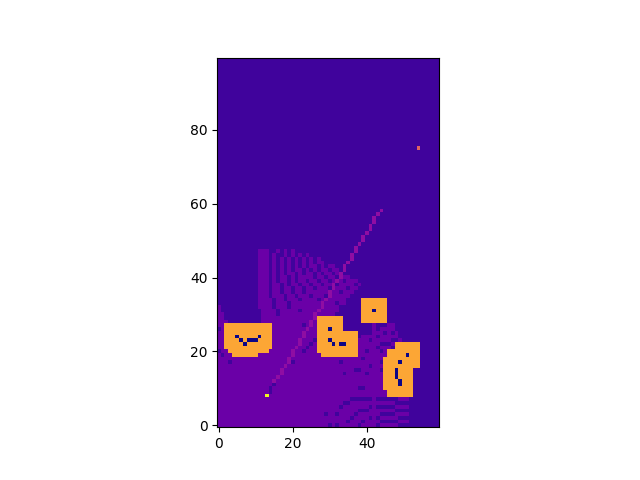
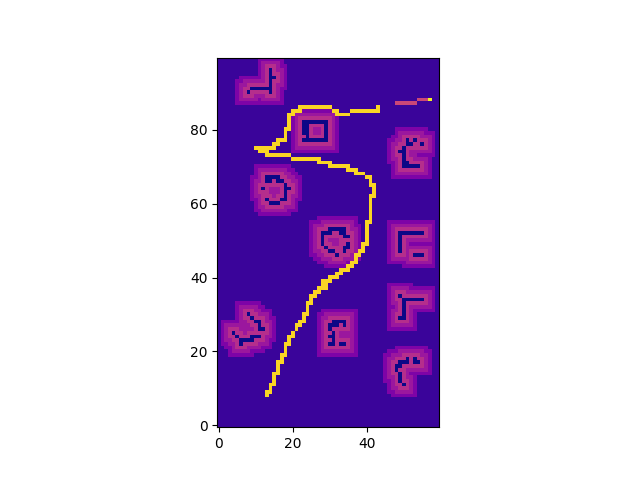
something is working

Changed region(s): [[0.3438, 0.125, 0.6875, 0.9062], [0.625, 0.1875, 0.6875, 0.2188]]

diff --git a/controllers/main/new_scanner.py b/controllers/main/new_scanner.py
@@ -8,7 +8,11 @@ on_ground = True
 height_desired = 0.5
 setpoints = [[-0.0, -0.0], [0.0, -2.0], [2.0, -2.0], [2.0,  -4.0],[-1.0, -2.0],[-1.0, -3.0]]
 delta = 0.3
-setpoints = [[3.5+delta,delta],[3.5+delta, 3-delta], [3.5+3*delta, 3-delta], [3.5+3*delta, delta]]
+setpoints = \
+            [[3.8,0.1],[3.8,0.45],[3.8,0.8],[3.8,1.15],[3.8,1.5],[3.8,1.85],[3.8,2.2],[3.8,2.55],[3.8,2.9]
+            ,[4.1,2.9],[4.1,2.55],[4.1,2.2],[4.1,1.85],[4.1,1.5],[4.1,1.15],[4.1,0.8],[4.1,0.45],[4.1,0.1]
+            ,[4.4,0.1],[4.4,0.45],[4.4,0.8],[4.4,1.15],[4.4,1.5],[4.4,1.85],[4.4,2.2],[4.4,2.55],[4.4,2.9]
+            ,[4.7,2.9],[4.7,2.55],[4.7,2.2],[4.7,1.85],[4.7,1.5],[4.7,1.15],[4.7,0.8],[4.7,0.45],[4.7,0.1]]
 goals = []
 perm_list = []
 pro_point = [0,0]
@@ -40,11 +44,9 @@ def path_planning(sensor_data):
     else:
         on_ground = False
    
-    #goals = create_path(sensor_data)
-    #print("goals in path planning: ", goals)
     occupancy_map(sensor_data)
     new_goals,actual_map = create_path2(sensor_data)
-    #new_goals = setpoints[index_current_setpoint]
+    #new_goals = [setpoints[index_current_setpoint]]
     vec_goal_drone,angle_goal_drone = drone_goal_orientation(sensor_data,index_current_setpoint)
     omega = omega_func2(scanning(pi/4,angle_goal_drone))
     speed = min(0.2,norm(vec_goal_drone))
@@ -57,7 +59,11 @@ def path_planning(sensor_data):
     #velocity_i = velocity_clipper(vec_goal_drone)
     v_x,v_y = I2B(sensor_data,velocity_i)
     control_command = [v_x,v_y,omega,height_desired]
+    if(norm(vec_goal_drone)<0.6):
+        index_current_setpoint += 1
     #control_command = obstacle_avoidance(sensor_data,control_command)
+    print("distance to goal: ", norm(vec_goal_drone))
+
     return control_command
 	
 def take_off(sensor_data):
@@ -117,10 +123,10 @@ def scanning(theta,alpha):
 	return phi-alpha
 
 def create_path2(sensor_data):
-    global map, map_past_pos,t
+    global map, map_past_pos,t,setpoints,index_current_setpoint
     list1 = map.copy()
-    mask = map_past_pos == 9
-    list1[mask] = 9
+    mask = map_past_pos == 10
+    list1[mask] = 10
 
     #starting position
     pos_x = sensor_data['x_global']
@@ -128,113 +134,183 @@ def create_path2(sensor_data):
     ind_dx = floor((pos_x - min_x)/res_pos)
     ind_dy = floor((pos_y - min_y)/res_pos)
     start = [ind_dx,ind_dy]
-    list1[start[0],start[1]] = 9
+    list1[start[0],start[1]] = 10
 
     #goal
     g_x,g_y = setpoints[index_current_setpoint]
     ind_gx = floor((g_x - min_x)/res_pos)
     ind_gy = floor((g_y - min_y)/res_pos)
     goal = [ind_gx,ind_gy]
-    list1[goal[0],goal[1]] = 5
+    list1[goal[0],goal[1]] = 11
 
     #Radius of research and length of zone of reasearch
     R = 1
     L = 50 
 
     #creating the path
-    #moving the goal if needed
-    rg = 2 # radius of obstacle free goal
-    while (map[max(goal[0]-rg,0):goal[0]+rg+1,max(goal[1]-rg,0):goal[1]+rg+1] == -1).sum() != 0:
-        direction = 3/2-goal[1]
-        mask = list1 == 9
-        list1 = map.copy()
-        list1[mask]=9
-        goal[1]=goal[1]+1 if direction > 0 else goal[1]-1
-        list1[goal[0],goal[1]] = 5
-        print("this while")
-    
+
     # list of the indexes for points with value -1 (list of obstacles indexes)
     u = np.where(list1==-1)
     v = np.vstack((u[0],u[1])).T    
-    # labeling the non-allowed blocks with 7
-    r = 3 #radius of non allowed blocks
+    # labeling the non-allowed blocks
+    r1 = 1 #radius of non allowed blocks
+    r2 = 2
+    r3 = 3
     for i,p in enumerate(v):
-        mask = list1[max(p[0]-r,0):p[0]+r+1,max(p[1]-r,0):p[1]+r+1] !=-1
-        list1[max(p[0]-r,0):p[0]+r+1,max(p[1]-r,0):p[1]+r+1] = mask*7\
-         + (~mask)*list1[max(p[0]-r,0):p[0]+r+1,max(p[1]-r,0):p[1]+r+1]
+        #premiere couche
+        mask0 = list1[max(p[0]-r1,0):p[0]+r1+1,max(p[1]-r1,0):p[1]+r1+1] > -1
+        mask1 = list1[max(p[0]-r1,0):p[0]+r1+1,max(p[1]-r1,0):p[1]+r1+1] < 10
+        mask1 = mask1 & mask0
+        list1[max(p[0]-r1,0):p[0]+r1+1,max(p[1]-r1,0):p[1]+r1+1] = mask1*4\
+         + (~mask1)*list1[max(p[0]-r1,0):p[0]+r1+1,max(p[1]-r1,0):p[1]+r1+1]
 
+        #2eme couche
+        mask0 = list1[max(p[0]-r2,0):p[0]+r2+1,max(p[1]-r2,0):p[1]+r2+1] > -1
+        mask1 = list1[max(p[0]-r2,0):p[0]+r2+1,max(p[1]-r2,0):p[1]+r2+1] < 4
+        mask1 = mask1 & mask0
+        list1[max(p[0]-r2,0):p[0]+r2+1,max(p[1]-r2,0):p[1]+r2+1] = mask1*3\
+         + (~mask1)*list1[max(p[0]-r2,0):p[0]+r2+1,max(p[1]-r2,0):p[1]+r2+1]
+
+        #3eme couche
+        mask0 = list1[max(p[0]-r3,0):p[0]+r3+1,max(p[1]-r3,0):p[1]+r3+1] > -1
+        mask1 = list1[max(p[0]-r3,0):p[0]+r3+1,max(p[1]-r3,0):p[1]+r3+1] < 3
+        mask1 = mask1 & mask0
+        list1[max(p[0]-r3,0):p[0]+r3+1,max(p[1]-r3,0):p[1]+r3+1] = mask1*2\
+         + (~mask1)*list1[max(p[0]-r3,0):p[0]+r3+1,max(p[1]-r3,0):p[1]+r3+1]
+
+    #moving the goal if needed
+    rg = 2 # radius of obstacle free goal
+    region = list1[max(goal[0]-rg,0):goal[0]+rg+1,max(goal[1]-rg,0):goal[1]+rg+1]
+    #if t>400:
+    #    print("region around goal:", region)
+    while ((region == -1)|(region == 4)|(region == 3)|(region == 2)).sum() != 0:
+        print("goal close to obstacle")
+        list1[goal[0],goal[1]] = 2
+        index_current_setpoint += 1
+        g_x,g_y = setpoints[index_current_setpoint]
+        ind_gx = floor((g_x - min_x)/res_pos)
+        ind_gy = floor((g_y - min_y)/res_pos)
+        goal = [ind_gx,ind_gy]
+        list1[goal[0],goal[1]] = 11
+        region = list1[max(goal[0]-rg,0):goal[0]+rg+1,max(goal[1]-rg,0):goal[1]+rg+1]
+    #    direction = 3/2-goal[1]
+    #    mask = list1 == 10
+    #    list1 = map.copy()
+    #    list1[mask]=10
+    #    goal[1]=goal[1]+1 if direction > 0 else goal[1]-1
+    #    list1[goal[0],goal[1]] = 5
+    #    print("this while")
+    
     chain = []
     reference = start
     propagation_point = start
     i = 0
     for i in range(L):
         #print("the main while")
-        # mask:(2R+1)x(2R+1) surrounding array with the allowed places
+        #
         lower_bound_x,upper_bound_x= max(reference[0]-R,0),reference[0]+R+1
         lower_bound_y,upper_bound_y= max(reference[1]-R,0),reference[1]+R+1
-        mask = (list1[lower_bound_x:upper_bound_x,lower_bound_y:upper_bound_y] == 1)\
-             | (list1[lower_bound_x:upper_bound_x,lower_bound_y:upper_bound_y] == 0)
-        non_mask = (list1[lower_bound_x:upper_bound_x,lower_bound_y:upper_bound_y] == 7)\
-                 | (list1[lower_bound_x:upper_bound_x,lower_bound_y:upper_bound_y] == -1) 
-        # if we find a square with value 5 it means we have found the goal
-        if (list1[lower_bound_x:upper_bound_x,lower_bound_y:upper_bound_y] == 5).sum() != 0:
+        region = list1[lower_bound_x:upper_bound_x,lower_bound_y:upper_bound_y].copy()
+        if (region == 11).sum() != 0:
             #if reference == start:
             print("breaking if")
             if ((start[0]-np.array(goal)[0])**2+(start[1]-np.array(goal)[1])**2)**0.5 <= 8**0.5:
                 print("exception") 
                 raise Goal_reached
             break
-    
-        #allowed_points contains the list of coordinates of allowed places, if statement to verify for dead ends
-        a = np.where(mask==True)[0]
-        b = np.where(mask==True)[1]
-        a2 = np.where(non_mask==True)[0]
-        b2 = np.where(non_mask==True)[1]
-        allowed_points = np.vstack((a,b)).T + np.clip(np.array(reference)-R,0,np.inf).astype(int)   #-R to center the values around the reference point
-        non_allowed_points = np.vstack((a2,b2)).T + np.clip(np.array(reference)-R,0,np.inf).astype(int)
-        #print(" ")
-        #print("allowed_points before centering",np.vstack((a,b)).T )
-        #print("NON allowed_points before centering",np.vstack((a2,b2)).T )
-        #print("la zone", list1[lower_bound_x:upper_bound_x,lower_bound_y:upper_bound_y]) 
-        #print("OUTSIDE allowed_points:", allowed_points.T," and non_allowed_points: ", non_allowed_points.T)
-        #print("OUTSIDE propagation:", propagation_point, " start point: ", start)
-        if len(allowed_points) != 0:
-            #print("normal management")
-            #allowed_points -= [min(0,allowed_points.T[0].min()), min(0,allowed_points.T[1].min())] #adapt to the border
-            #distance = ((goal[0]-allowed_points.T[0])**2+(goal[1]-allowed_points.T[1])**2)**0.5
-            #print("allowed_points-np.array(propagation_point)", (allowed_points-np.array(propagation_point)).T)
-            angle_allowed = vector_orientation2(np.array(goal)-np.array(propagation_point),allowed_points-np.array(propagation_point))
-            #print("angle allowed", angle_allowed.T)
-            index_min = np.where(abs(angle_allowed)==abs(angle_allowed).min())[0][0]
-            #index_min = np.where(distance==distance.min())[0][0]
-            reference = allowed_points[index_min].tolist()
-            chain.append(reference)
-            list1[reference[0],reference[1]] = 2
 
-            if len(non_allowed_points) != 0:#If the best next point is an obstacle we change the propagation point
-                
-                #non_allowed_points -= [min(0,non_allowed_points.T[0].min()), min(0,non_allowed_points.T[1].min())]
-                non_allowed_angle = vector_orientation2(np.array(goal)-np.array(propagation_point),non_allowed_points-np.array(propagation_point))
-                #print(" non allowed_points", non_allowed_points," propagation_point", propagation_point,"non_allowed_angle", non_allowed_angle)
-                if abs(non_allowed_angle).min()<abs(angle_allowed).min():
-                    propagation_point = reference
-                #print(" ")
-            
-        else:#dead end management
-            print("dead_end management")
-            if len(chain) != 0:
-                chain.pop(-1)
-                list1[reference[0],reference[1]] = 7 # 7 stands for non allowed block
-                reference = chain[-1]
-            else:
-                print("to be handled") #when chain is empty, which means we are close to the goal
+        mask = ((region != -1) & (region < 5))
+        x_coord,y_coord = np.where(region == region[mask].min())
+        allowed_points = np.vstack((x_coord,y_coord)).T + np.clip(np.array(reference)-R,0,np.inf).astype(int)   #-R to center the values around the reference point
+        x_coord,y_coord = np.where(mask == True)
+        all_points = np.vstack((x_coord,y_coord)).T + np.clip(np.array(reference)-R,0,np.inf).astype(int)
+
+        #print("allowed_points:\n", allowed_points, " all_points:\n ", all_points)
+        allowed_angles = vector_orientation2(np.array(goal)-np.array(propagation_point),allowed_points-np.array(propagation_point))
+        all_angles = vector_orientation2(np.array(goal)-np.array(propagation_point),all_points-np.array(propagation_point))
+        if abs(all_angles).min()<abs(allowed_angles).min():#if my actual reference point needs to be the new propagation  point
+            allowed_angles = vector_orientation2(np.array(goal)-np.array(reference),allowed_points-np.array(reference))
+            propagation_point = reference
+        index_min = np.where(abs(allowed_angles)==abs(allowed_angles).min())[0][0]
+        reference = allowed_points[index_min].tolist()
+        chain.append(reference)
+        list1[reference[0],reference[1]] = 5
+
+        #if t > 329:
+        #    print("region: ", region , " and mask: ", mask)
+        #    print("allowed_points:\n", allowed_points, " all_points:\n ", all_points)
+        #    print("allowed_angles:\n", allowed_angles, " all_angles:\n ", all_angles)
+        #    print("propagation_point:", propagation_point)
+                    
+
+        # mask:(2R+1)x(2R+1) surrounding array with the allowed places
+        #lower_bound_x,upper_bound_x= max(reference[0]-R,0),reference[0]+R+1
+        #lower_bound_y,upper_bound_y= max(reference[1]-R,0),reference[1]+R+1
+        #mask = (list1[lower_bound_x:upper_bound_x,lower_bound_y:upper_bound_y] == 1)\
+        #     | (list1[lower_bound_x:upper_bound_x,lower_bound_y:upper_bound_y] == 0)
+        #non_mask = (list1[lower_bound_x:upper_bound_x,lower_bound_y:upper_bound_y] == 7)\
+        #         | (list1[lower_bound_x:upper_bound_x,lower_bound_y:upper_bound_y] == -1) 
+        ## if we find a square with value 5 it means we have found the goal
+        #if (list1[lower_bound_x:upper_bound_x,lower_bound_y:upper_bound_y] == 11).sum() != 0:
+        #    #if reference == start:
+        #    print("breaking if")
+        #    if ((start[0]-np.array(goal)[0])**2+(start[1]-np.array(goal)[1])**2)**0.5 <= 8**0.5:
+        #        print("exception") 
+        #        raise Goal_reached
+        #    break
+        #
+        ##allowed_points contains the list of coordinates of allowed places, if statement to verify for dead ends
+        #a = np.where(mask==True)[0]
+        #b = np.where(mask==True)[1]
+        #a2 = np.where(non_mask==True)[0]
+        #b2 = np.where(non_mask==True)[1]
+        #allowed_points = np.vstack((a,b)).T + np.clip(np.array(reference)-R,0,np.inf).astype(int)   #-R to center the values around the reference point
+        #non_allowed_points = np.vstack((a2,b2)).T + np.clip(np.array(reference)-R,0,np.inf).astype(int)
+        ##print(" ")
+        ##print("allowed_points before centering",np.vstack((a,b)).T )
+        ##print("NON allowed_points before centering",np.vstack((a2,b2)).T )
+        ##print("la zone", list1[lower_bound_x:upper_bound_x,lower_bound_y:upper_bound_y]) 
+        ##print("OUTSIDE allowed_points:", allowed_points.T," and non_allowed_points: ", non_allowed_points.T)
+        ##print("OUTSIDE propagation:", propagation_point, " start point: ", start)
+        #if len(allowed_points) != 0:
+        #    #print("normal management")
+        #    #allowed_points -= [min(0,allowed_points.T[0].min()), min(0,allowed_points.T[1].min())] #adapt to the border
+        #    #distance = ((goal[0]-allowed_points.T[0])**2+(goal[1]-allowed_points.T[1])**2)**0.5
+        #    #print("allowed_points-np.array(propagation_point)", (allowed_points-np.array(propagation_point)).T)
+        #    angle_allowed = vector_orientation2(np.array(goal)-np.array(propagation_point),allowed_points-np.array(propagation_point))
+        #    #print("angle allowed", angle_allowed.T)
+        #    index_min = np.where(abs(angle_allowed)==abs(angle_allowed).min())[0][0]
+        #    #index_min = np.where(distance==distance.min())[0][0]
+        #    reference = allowed_points[index_min].tolist()
+        #    chain.append(reference)
+        #    list1[reference[0],reference[1]] = 2
+        #    
+        #    if len(non_allowed_points) != 0:#If the best next point is an obstacle we change the propagation point
+        #        
+        #        #non_allowed_points -= [min(0,non_allowed_points.T[0].min()), min(0,non_allowed_points.T[1].min())]
+        #        non_allowed_angle = vector_orientation2(np.array(goal)-np.array(propagation_point),non_allowed_points-np.array(propagation_point))
+        #        #print(" non allowed_points", non_allowed_points," propagation_point", propagation_point,"non_allowed_angle", non_allowed_angle)
+        #        if abs(non_allowed_angle).min()<abs(angle_allowed).min():
+        #            propagation_point = reference
+        #        #print(" ")
+        #    
+        #else:#dead end management
+        #    print("dead_end management")
+        #    if len(chain) != 0:
+        #        chain.pop(-1)
+        #        list1[reference[0],reference[1]] = 7 # 7 stands for non allowed block
+        #        reference = chain[-1]
+        #    else:
+        #        print("to be handled") #when chain is empty, which means we are close to the goal
     
         #print(" ")
         #i = (abs(np.array(start)-np.array(reference))).max()
         #print("i:", i)
-        if t % 25 == 0:
-            plt.imshow(list1,cmap='plasma')
-            plt.pause(0.05)
+        #if t % 25 == 0:
+        #if t>329:
+        #    plt.imshow(list1,cmap='plasma')
+        #    plt.savefig("map_scan.png")
+        #    plt.pause(0.05)
     
     #à gérer en dehors de la fonction
     distance = ((start[0]-np.array(chain).T[0])**2+(start[1]-np.array(chain).T[1])**2)**0.5
@@ -247,12 +323,13 @@ def create_path2(sensor_data):
     #plt.pause(0.05)
 
     #list1[start[0],start[1]] = 9  #may be redundant
-    mask = list1 == 9
-    map_past_pos[mask] = 9
+    mask = list1 == 10
+    map_past_pos[mask] = 10
     #list1[np.array(chain).T[0],np.array(chain).T[1]]=0  #empty the chain points from the list1
     #list1[chain[0][0],chain[0][1]] = 9
 
-    if t % 25 == 0:
+    if t % 25 == 0:# or t>673:# (t>600 and (t % 1 == 0)):
+        print(t)
         plt.imshow(np.flip(list1,1),origin='lower',cmap='plasma') # flip the map to match the coordinate system (cmap='gray', vmin=-1, vmax=1)
         #plt.imshow(map, vmin=-1, vmax=1, cmap='gray', origin='lower')
         #plt.pause(0.01) #added
@@ -276,10 +353,10 @@ def drone_goal_orientation(sensor_data,index_current_setpoint):#positive angle m
     return dist_goal,angle   #dist_goal is a vector
 
 def vector_orientation2(u,v):
-    angle = np.zeros((v.shape[0],1))
     u = np.array(u).reshape((1,2))
-    u_prime = np.array([[-u[0][1],u[0][0]]])
+    u_prime = np.array([[-u[0][1],u[0][0]]]) 
     v = np.array(v)
+    angle = np.zeros((v.shape[0],1))
     det_uv = v.dot(u_prime.T)
     scal_prod = v.dot(u.T)
 
@@ -318,12 +395,12 @@ def occupancy_map(sensor_data):
     pos_y = sensor_data['y_global']
 
     #my stuff
-    goal_x = 3.8
-    goal_y = 0.3
-    ind_dx = int(np.round((pos_x - min_x)/res_pos,0))
-    ind_dy = int(np.round((pos_y - min_y)/res_pos,0))
-    ind_gx = int(np.round((goal_x - min_x)/res_pos,0))
-    ind_gy = int(np.round((goal_y - min_y)/res_pos,0))
+    #goal_x = 3.8
+    #goal_y = 0.3
+    #ind_dx = int(np.round((pos_x - min_x)/res_pos,0))
+    #ind_dy = int(np.round((pos_y - min_y)/res_pos,0))
+    #ind_gx = int(np.round((goal_x - min_x)/res_pos,0))
+    #ind_gy = int(np.round((goal_y - min_y)/res_pos,0))
 
     #p_map = path_map(ind_dx, ind_dy, ind_gx, ind_gy, np.zeros((int((max_x-min_x)/res_pos), int((max_y-min_y)/res_pos))))
     #p_map = path_map2(np.zeros((int((max_x-min_x)/res_pos), int((max_y-min_y)/res_pos))))
@@ -359,7 +436,7 @@ def occupancy_map(sensor_data):
                 map_coord[idx_x, idx_y] = [(pos_x - min_x + measurement*np.cos(yaw_sensor)),(pos_y - min_y + measurement*np.sin(yaw_sensor))]
                 break
 
-    map = np.clip(map, -1, 1) # certainty can never be more than 100%
+    map = np.clip(map, -1, 0) # certainty can never be more than 100%
     #show_map = map.copy()#mask*map+p_map
     #map[ind_dx][ind_dy]=10
     #map.T[20] = 5*np.ones((1,int((max_x-min_x)/res_pos)))

diff --git a/controllers/main/path_finder_simulator.py b/controllers/main/path_finder_simulator.py
@@ -71,7 +71,8 @@ try:
         # labeling the non-allowed blocks with 7
         r = 1 #radius of non allowed blocks
         for i,p in enumerate(v):
-            mask = list1[max(p[0]-r,0):p[0]+r+1,max(p[1]-r,0):p[1]+r+1] !=-1
+            mask = list1[max(p[0]-r,0):p[0]+r+1,max(p[1]-r,0):p[1]+r+1] > -1
+            print("mask", mask)
             list1[max(p[0]-r,0):p[0]+r+1,max(p[1]-r,0):p[1]+r+1] = mask*7\
              + (~mask)*list1[max(p[0]-r,0):p[0]+r+1,max(p[1]-r,0):p[1]+r+1]
 
@@ -101,7 +102,7 @@ try:
                 #print("angles:", abs(angle)==abs(angle).min())
                 #index_min = np.where(distance==distance.min())[0][0]
                 index_min = np.where(abs(angle)==abs(angle).min())[0][0]
-                print("angle",angle," surrounding_points", surrounding_points,"goal",goal,"reference",reference)
+                #print("angle",angle," surrounding_points", surrounding_points,"goal",goal,"reference",reference)
                 reference = surrounding_points[index_min].tolist()
                 chain.append(reference)
                 list1[reference[0],reference[1]] = 2
